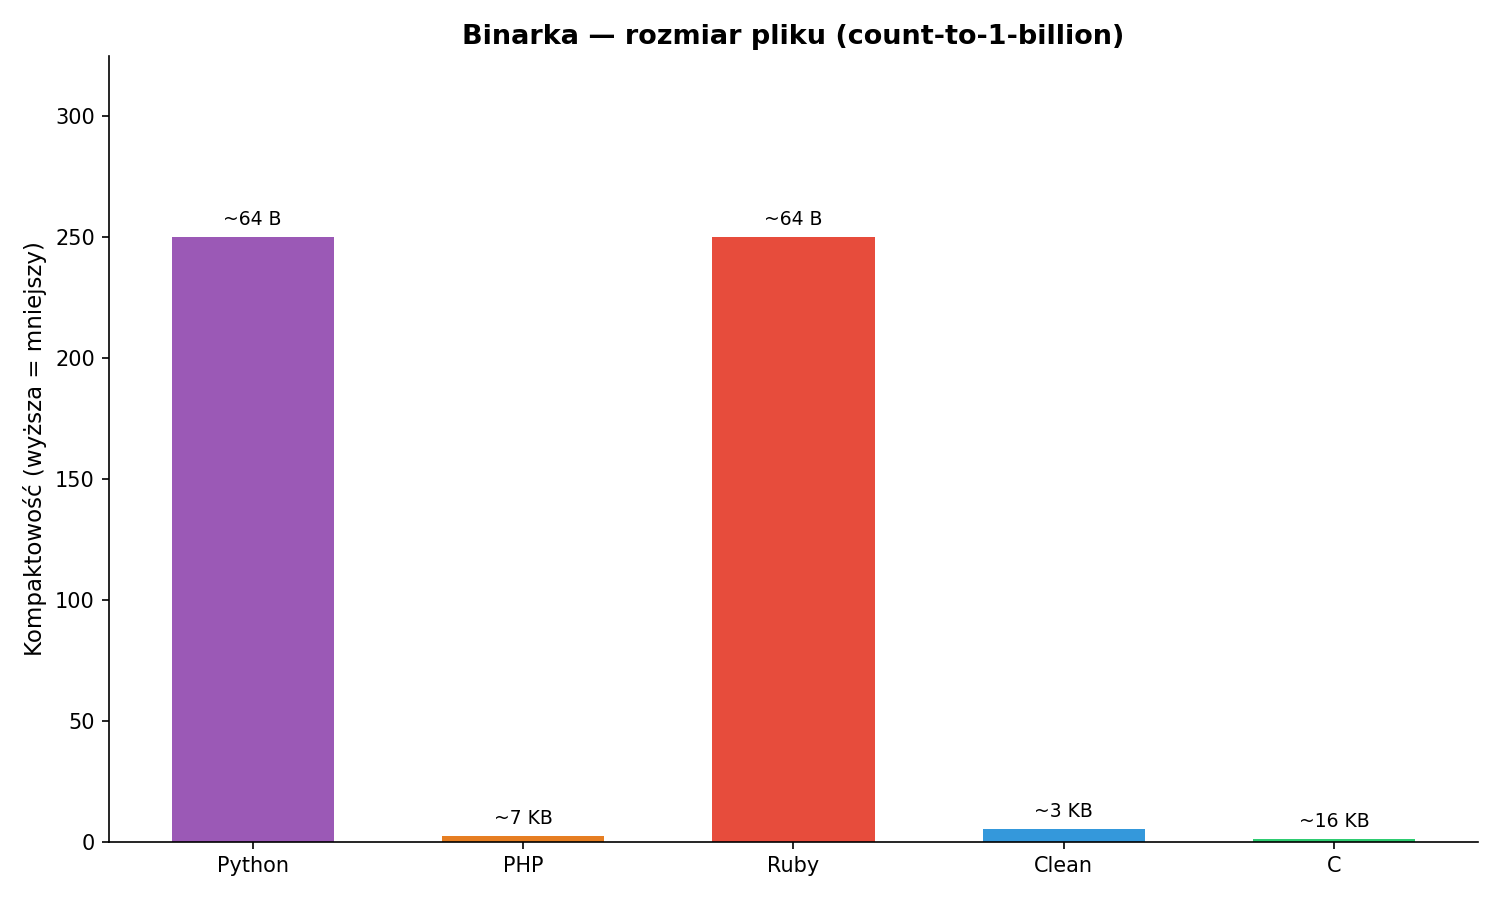
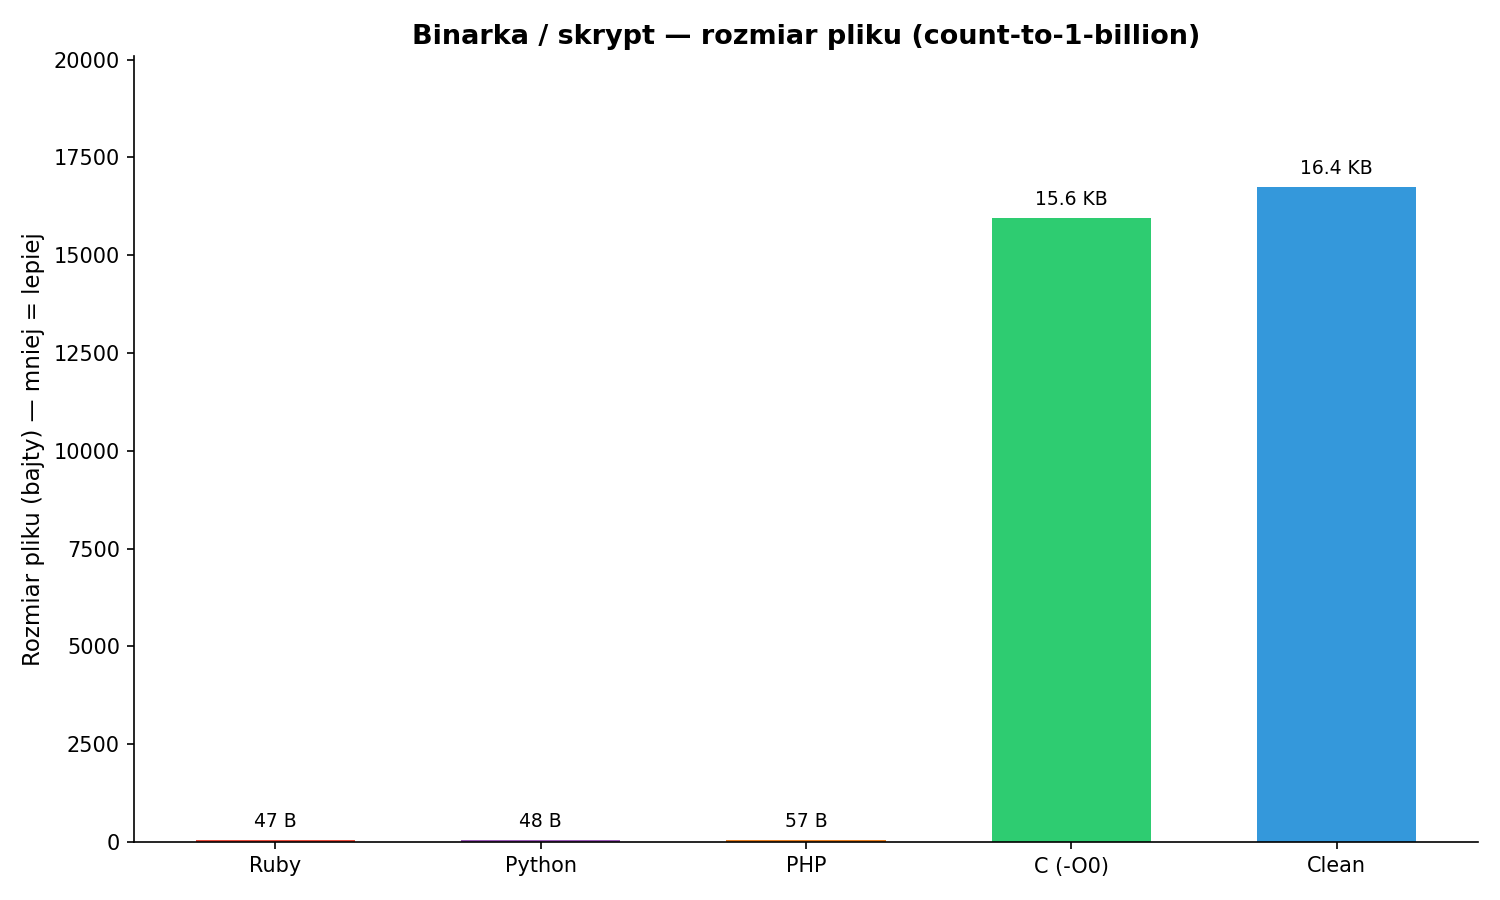
Popraw wykres rozmiaru: dokładne bajty + sortowanie

diff --git a/README.md b/README.md
@@ -308,15 +308,15 @@ Brak GC = Clean nie pauzuje na zbieranie śmieci, alokacja malloc jest determini
 
 ![Binary size](bench/size_bench.png)
 
-| Język | Rozmiar |
-|-------|---------|
-| Clean | ~3 KB |
-| C (-O0) | ~16 KB |
-| PHP | ~7 KB (skrypt) |
-| Ruby | ~64 B (skrypt) |
-| Python | ~64 B (skrypt) |
+| Język | Rozmiar | Typ |
+|-------|---------|-----|
+| Ruby | **47 B** | skrypt |
+| Python | **48 B** | skrypt |
+| PHP | **57 B** | skrypt |
+| C (-O0) | **15.6 KB** | ELF (static linked) |
+| Clean | **16.3 KB** | ELF (static linked) |
 
-Clean produkuje natywne ELF bez zewnętrznych zależności (static linked).
+Clean produkuje natywne ELF bez zewnętrznych zależności. ~16 KB to cały program + print_int + pętla + exit. Dla porównania: `rustup run stable cargo new --bin hello && cargo build --release` daje ~400 KB.
 
 ### Cechy języka w pigułce
 